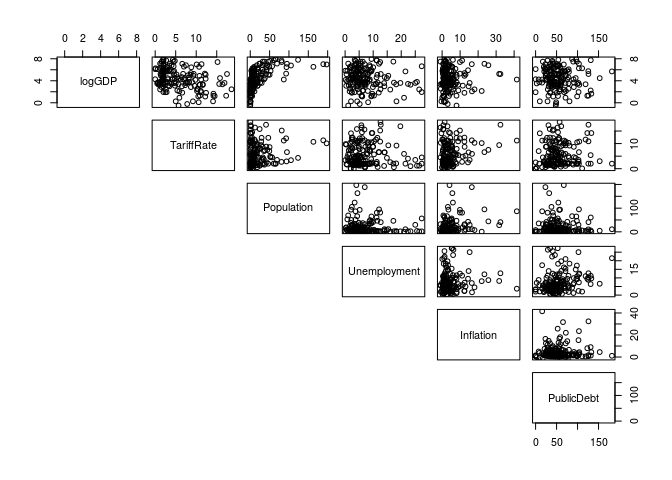
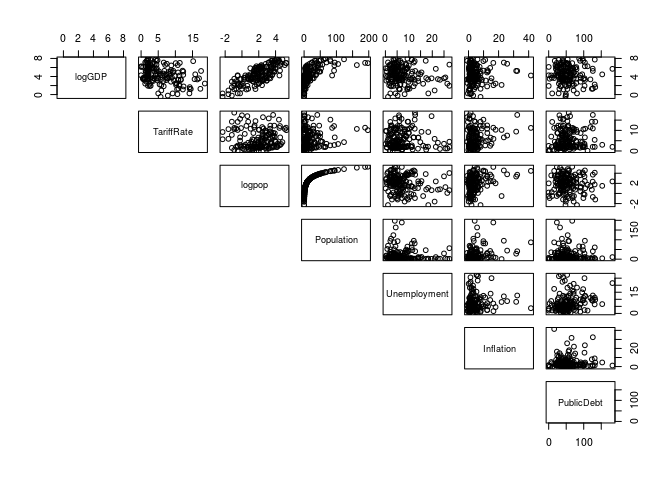
Fixed pairs again

diff --git a/01-proposal/proposal.md b/01-proposal/proposal.md
@@ -670,7 +670,7 @@ with most of the outliers removed.
 temp <- economic_data %>%
   filter(GDP<3000 & Inflation < 100)
 
-pairs(GDP ~ TariffRate + logpop + Unemployment + Inflation + PublicDebt, data=temp, lower.panel = NULL)
+pairs(GDP ~ TariffRate + logpop + Population + Unemployment + Inflation + PublicDebt, data=temp, lower.panel = NULL)
 ```
 
 ![](proposal_files/figure-gfm/Scatterplot%20GDP%20without%20outliers-1.png)<!-- -->
@@ -689,7 +689,7 @@ distribution while GDP is extremely right
 skewed.
 
 ``` r
-pairs(logGDP ~ TariffRate + Population + Unemployment + Inflation + PublicDebt, data=temp, lower.panel = NULL)
+pairs(logGDP ~ TariffRate + logpop + Population + Unemployment + Inflation + PublicDebt, data=temp, lower.panel = NULL)
 ```
 
 ![](proposal_files/figure-gfm/Scatterplot%20logGDP-1.png)<!-- -->
@@ -703,8 +703,8 @@ on the scatterplots of the response variables against the quantitative
 predictor variables, we see that there is now a much stronger a linear
 relationship between the two. Particularly, we note that the logGDP
 against population scatterplot shows a curved distribution which
-resembles a logarithimic function. We can thus log transform the
-population variable.
+resembles a logarithimic function. This is why we transformed population
+into the logpop variable, which has a linear relationship with GDP
 
 Moreover, we also noticed some multicollinearity issues between
 predictor variables. In specific, the relationship between GovSpending
